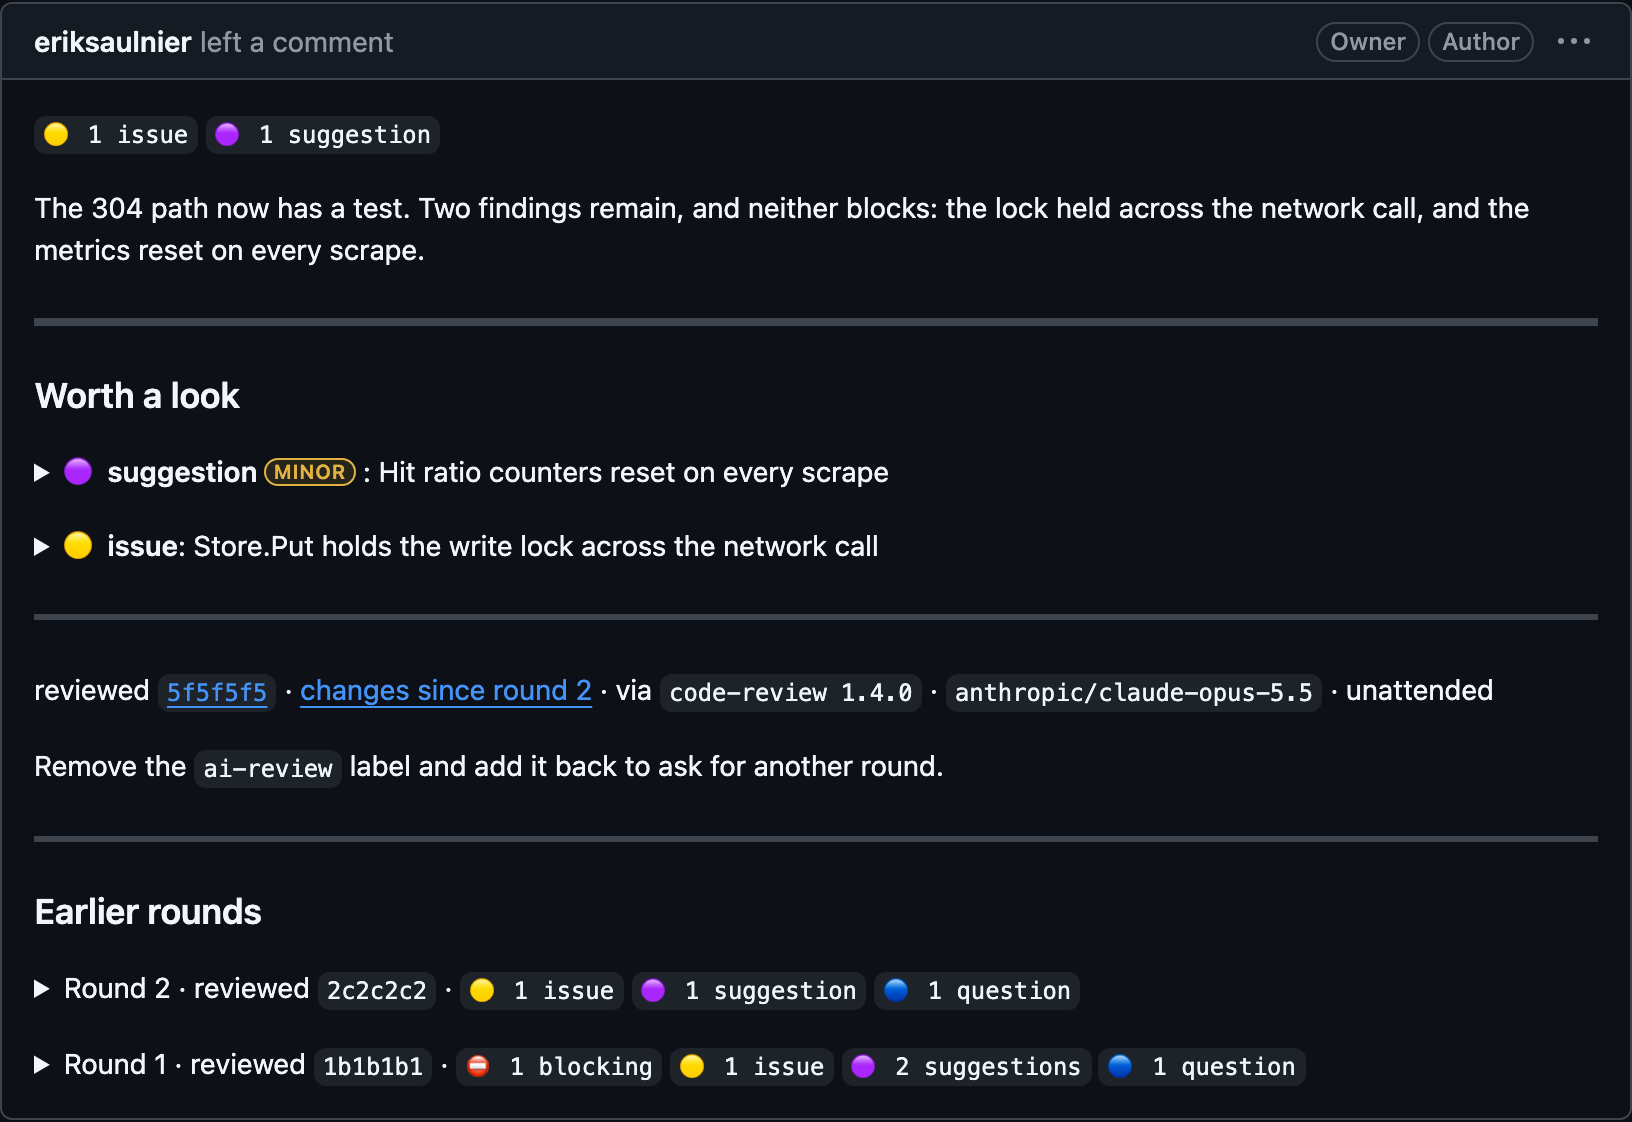
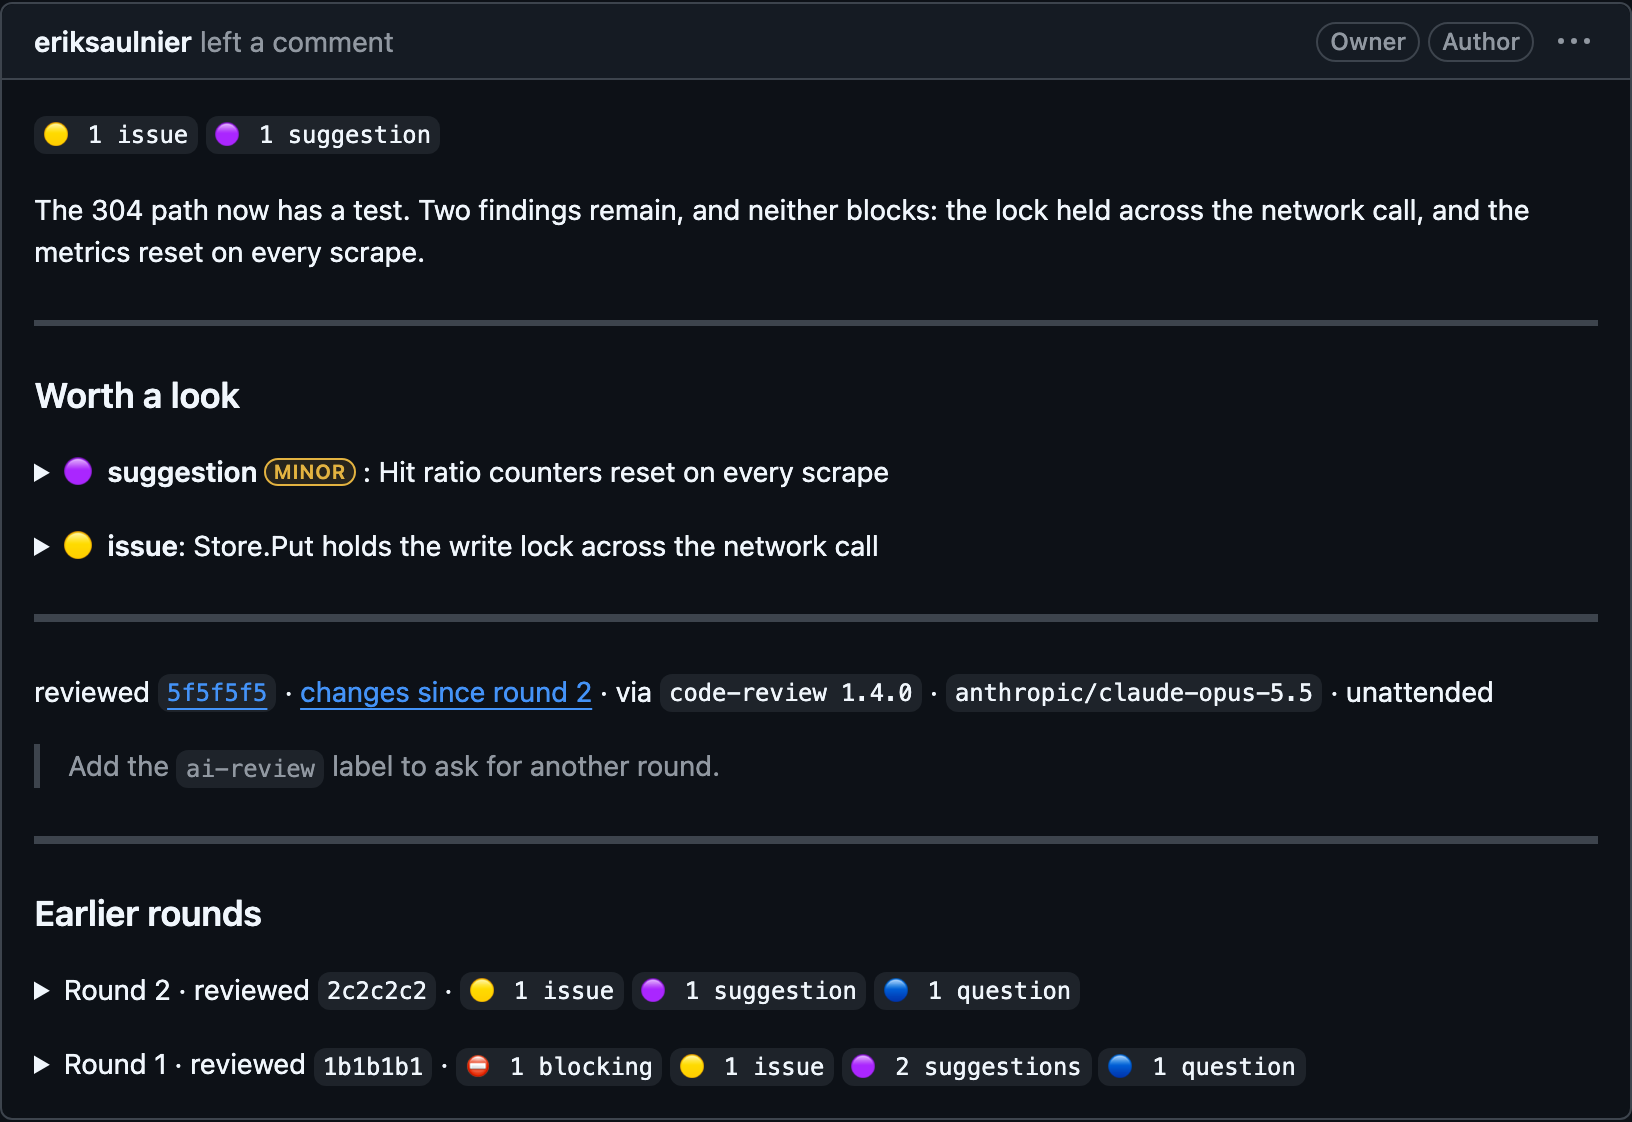
feat(render): write the sticky round note as a quote (#66)
The round note (`--note`, spec 032) rendered as a plain paragraph under
the newest round's footer, so it read like part of the review. It is the
pipeline's aside, and now it renders as a quote at full size. The demo's
seeded note also told the reader to remove and re-add the label, but the
shared workflow's `unlabel` job takes the label off after a labeled
round, so adding it is the whole instruction.

- `internal/render/body.go`: the note goes through the quote writer
collapsed rounds already use. Every line keeps a marker, so the top
anchor's `note=` count holds and read-back drops the same lines.
- `docs/comment-format.md` (Sticky reviews) and spec 032 FR-003: one
sentence each.
- `cmd/loupe-demo`: the seeded note says "Add the `ai-review` label to
ask for another round."
- `docs/assets/review-sticky.png` and `review-sticky-dark.png`: retaken
from the sandbox with both changes. The owner compared small text, a
plain quote and a GitHub note callout on the rendered review, and picked
the plain quote.

## Checks

`mise run check` ran in the pre-commit hook on each commit. Three render
tests updated their expected bytes for the quoted note; nothing else
changed.

🤖 Generated with [Claude Code](https://claude.com/claude-code)

---------

diff --git a/internal/render/anchor_test.go b/internal/render/anchor_test.go
@@ -105,7 +105,7 @@ func TestBodyAnchorsEveryRound(t *testing.T) {
 		!slices.Equal(ns, []int{3, 2, 1}) {
 		t.Fatalf("anchors %v:\n%s", ns, body)
 	}
-	if !strings.Contains(body, " · via `gadfly-review-pr 2.3.0`\n\nPush again for another round.\n\nOr ask.\n\n---\n\n<!-- loupe-earlier -->") {
+	if !strings.Contains(body, " · via `gadfly-review-pr 2.3.0`\n\n> Push again for another round.\n>\n> Or ask.\n\n---\n\n<!-- loupe-earlier -->") {
 		t.Fatalf("the note does not follow the footer:\n%s", body)
 	}
 	earlier, rounds, err := ReadSticky(body)
@@ -306,7 +306,7 @@ func TestReadStickyCollapsesAnEditedTopRoundWhole(t *testing.T) {
 	for _, want := range []string{
 		"<details>\n<summary>Round 3 · reviewed <code>ccccccc</code> · <code>⛔ 1 blocking</code> <code>🟣 1 suggestion</code></summary>\n\n> `⛔ 1 blocking` `🟣 1 suggestion`\n>\n> A new blocking issue, and one suggestion. Edited.\n>\n> ---\n>\n> ### Must fix\n",
 		"> ---\n>\n> reviewed [`ccccccc`]",
-		"\n>\n> Push again for another round.\n>\n> Or ask.\n\n<!-- loupe digest=3",
+		"\n>\n> > Push again for another round.\n> >\n> > Or ask.\n\n<!-- loupe digest=3",
 	} {
 		if !strings.Contains(top.Block, want) {
 			t.Fatalf("missing %q:\n%s", want, top.Block)

diff --git a/cmd/loupe-demo/main.go b/cmd/loupe-demo/main.go
@@ -178,7 +178,7 @@ func demoBody(now time.Time) (string, error) {
 }
 
 // stickyNote is the hint a pipeline passes with --note, shown under the newest round only.
-const stickyNote = "Remove the `ai-review` label and add it back to ask for another round."
+const stickyNote = "Add the `ai-review` label to ask for another round."
 
 // stickyRounds are the rounds demoStickyBody publishes, each at a new head that fixed some of what the round before
 // found, so the collapsed rounds show the counts falling. The numbers index findings.

diff --git a/internal/render/body.go b/internal/render/body.go
@@ -154,7 +154,9 @@ func Body(in Input) string {
 		note = trimmedLines(in.Sticky.Note)
 	}
 	if note != "" {
-		footer += "\n\n" + note
+		// The note is the pipeline's aside, not the round's prose, so it reads as a quote. The marker keeps every line,
+		// so the anchor's count holds.
+		footer += "\n\n" + quoteLines(note)
 	}
 	// Each round's footer sits under the round, so the earlier rounds follow the newest one's footer, and a round
 	// demoted later carries its footer into its collapse.

diff --git a/internal/render/sticky_test.go b/internal/render/sticky_test.go
@@ -849,7 +849,7 @@ func TestStickyNoteFollowsTheNewestFooter(t *testing.T) {
 	in := stickyGoldenInput(t)
 	in.Sticky.Note = roundNote
 	body := Body(in)
-	want := "· via `gadfly-review-pr 2.2.0`\n\n" + roundNote + "\n\n---\n\n<!-- loupe-earlier -->"
+	want := "· via `gadfly-review-pr 2.2.0`\n\n> " + roundNote + "\n\n---\n\n<!-- loupe-earlier -->"
 	if !strings.Contains(body, want) {
 		t.Fatalf("note not under the footer:\n%s", body)
 	}

diff --git a/docs/comment-format.md b/docs/comment-format.md
@@ -323,7 +323,7 @@ reviewed `bbbbbbb` · via `gadfly-review-pr 2.2.0`
 ````
 
 - **The newest round is composed exactly as an ordinary review with `--inline none`**: chips, opening prose, `Must fix`, `Worth a look`, then a divider and its footer. The hidden markers end the body as on any review, and describe the newest round.
-- **An unattended sticky round MAY carry a note under its footer** (`loupe publish --unattended --sticky --note`, `specs/032-sticky-round-note`, amended by `specs/033-round-anchors`). After the footer comes a blank line, then the note, in the footer's block and before the divider that opens the earlier rounds. The top anchor's `note=` counts its lines. The note passes the allowlist at the summary's depth. It belongs to the newest round only: read-back drops those lines before it collapses the round, so a collapsed round never carries a note and is the same whether or not the round had one. The note is not a finding and is not covered by the digest. A loupe released before the note cannot continue a series whose newest round carries one: it refuses with `sticky`, whose fix, publishing once without `--sticky`, still works.
+- **An unattended sticky round MAY carry a note under its footer** (`loupe publish --unattended --sticky --note`, `specs/032-sticky-round-note`, amended by `specs/033-round-anchors`). After the footer comes a blank line, then the note written as one quote (each line prefixed `> `, a blank line as `>`), in the footer's block and before the divider that opens the earlier rounds. The top anchor's `note=` counts its lines, quote markers included. The note passes the allowlist at the summary's depth. It belongs to the newest round only: read-back drops those lines before it collapses the round, so a collapsed round never carries a note and is the same whether or not the round had one. The note is not a finding and is not covered by the digest. A loupe released before the note cannot continue a series whose newest round carries one: it refuses with `sticky`, whose fix, publishing once without `--sticky`, still works.
 - **Each round opens on an anchor** (`specs/033-round-anchors`): one hidden line `<!-- loupe-round v=1 n=N commit=SHA … sha256=HEX -->`, alone and outside any fence, followed by a blank line. The anchor of the newest round is line 1 of the body. Each collapsed round's anchor sits right before its `<details>`. A review without `--sticky` carries none.
   - Every anchor carries `v`, `n`, the round's place in the sticky review, and `commit`, the round's full commit when loupe knew it, and ends with `sha256`. The newest round's anchor also carries `blocking`, `issues`, `suggestions`, `questions` and `other`, the counts its chips row shows, where `issues` and the three after it count non-blocking findings only, unlike `loupe-meta`'s census. It then carries `prose`, the lines of opening prose, and `note`, the lines of the note, 0 for none. New keys MAY be added before `sha256`. Existing keys MUST keep their meaning. Every value is a decimal integer or lowercase hex, so no value can close the comment.
   - `sha256` is the SHA-256 hex of the anchor's text between `<!-- loupe-round ` and ` sha256=`, a newline, then the round's text: the lines after the anchor up to the next boundary, CRLF and lone CR read as LF, with blank lines trimmed at both ends. The newest round runs to the divider before `<!-- loupe-earlier -->`, or to its reconciliation marker when there is no earlier round, and its text ends with a newline and that marker. A collapsed round runs to the next anchor, or to the newest round's reconciliation marker.

diff --git a/specs/032-sticky-round-note/spec.md b/specs/032-sticky-round-note/spec.md
@@ -72,7 +72,7 @@ A caller passes `--note` to an attended publish, or to one without `--sticky`, o
 
 - **FR-001**: `loupe publish` MUST take `--note <markdown>`, and MUST refuse it with `usage`, before the run is resolved, unless `--unattended` and `--sticky` are both set.
 - **FR-002**: The note MUST pass the Markdown allowlist at the summary's depth, and a failure MUST refuse with `markdown` and name the note.
-- **FR-003**: The note MUST render under the newest round's footer as `<!-- loupe-note -->`, a blank line, the note, a blank line and `<!-- loupe-note-end -->`, before the earlier rounds.
+- **FR-003** (amended 2026-09-26 by the owner: the note renders as one quote, `> ` before each line and `>` on a blank line, so it reads as the pipeline's aside and keeps its line count): The note MUST render under the newest round's footer as `<!-- loupe-note -->`, a blank line, the note, a blank line and `<!-- loupe-note-end -->`, before the earlier rounds.
 - **FR-004**: Read-back MUST drop the note, delimiters included, before it collapses the round, and MUST refuse with `sticky` when the delimiters are not one pair after a blank line on the round on top.
 - **FR-005**: The note MUST NOT change the digest, the findings that publish or the inline comments.
 - **FR-006**: `loupe publish --help`, `contracts/cli.md` and `docs/comment-format.md` MUST document the note.
